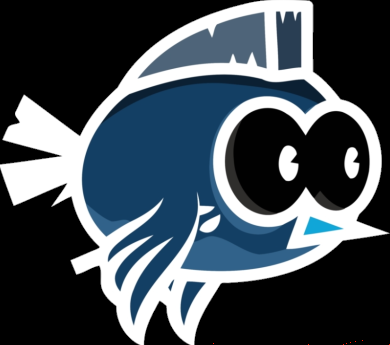
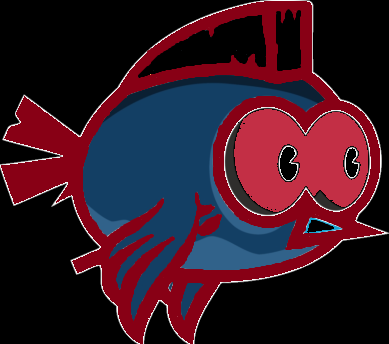
added flappy lag punk mode

diff --git a/Computer graphics/Flappy lag/CG_Project3/Main.cpp b/Computer graphics/Flappy lag/CG_Project3/Main.cpp
@@ -123,6 +123,43 @@ public:
 		}
 	}
 
+	virtual void CreateVAOPunk()
+	{
+		glGenVertexArrays(1, &m_vao);
+		glBindVertexArray(m_vao);
+
+		unsigned int vbo;
+		glGenBuffers(1, &vbo);
+		glBindBuffer(GL_ARRAY_BUFFER, vbo);
+		glBufferData(GL_ARRAY_BUFFER, chimneyVertices.size() * sizeof(Vertex), chimneyVertices.data(), GL_STATIC_DRAW);
+
+		glVertexAttribPointer(0, 3, GL_FLOAT, GL_FALSE, sizeof(Vertex), NULL);
+		glVertexAttribPointer(1, 3, GL_FLOAT, GL_FALSE, sizeof(Vertex), (void*)offsetof(Vertex, r));
+		glVertexAttribPointer(2, 2, GL_FLOAT, GL_FALSE, sizeof(Vertex), (void*)offsetof(Vertex, s));
+		glEnableVertexAttribArray(0);
+		glEnableVertexAttribArray(1);
+		glEnableVertexAttribArray(2);
+		{
+			int width, height, nrChannels;
+			shared_ptr<unsigned char> data = shared_ptr<unsigned char>(stbi_load("Resources/background1.jpg", &width, &height, &nrChannels, 0), stbi_image_free);
+			if (!data)
+				throw exception("Failed to load texture");
+
+			unsigned texture;
+			glGenTextures(1, &texture);
+			glActiveTexture(GL_TEXTURE2);
+			glBindTexture(GL_TEXTURE_2D, texture);
+
+			glTexParameteri(GL_TEXTURE_2D, GL_TEXTURE_WRAP_S, GL_REPEAT);
+			glTexParameteri(GL_TEXTURE_2D, GL_TEXTURE_WRAP_T, GL_REPEAT);
+			glTexParameteri(GL_TEXTURE_2D, GL_TEXTURE_MIN_FILTER, GL_LINEAR);
+			glTexParameteri(GL_TEXTURE_2D, GL_TEXTURE_MAG_FILTER, GL_LINEAR);
+
+			glTexImage2D(GL_TEXTURE_2D, 0, GL_RGBA, width, height, 0, GL_RGBA, GL_UNSIGNED_BYTE, data.get());
+			glGenerateMipmap(GL_TEXTURE_2D);
+		}
+	}
+
 	virtual void Draw(ShaderProgram& shader)
 	{
 		mat4 model = mat4(1.0f);
@@ -181,6 +218,43 @@ public:
 		{
 			int width, height, nrChannels;
 			shared_ptr<unsigned char> data = shared_ptr<unsigned char>(stbi_load("Resources/chimney.jpg", &width, &height, &nrChannels, 0), stbi_image_free);
+			if (!data)
+				throw exception("Failed to load texture");
+
+			unsigned texture;
+			glGenTextures(1, &texture);
+			glActiveTexture(GL_TEXTURE1);
+			glBindTexture(GL_TEXTURE_2D, texture);
+
+			glTexParameteri(GL_TEXTURE_2D, GL_TEXTURE_WRAP_S, GL_REPEAT);
+			glTexParameteri(GL_TEXTURE_2D, GL_TEXTURE_WRAP_T, GL_REPEAT);
+			glTexParameteri(GL_TEXTURE_2D, GL_TEXTURE_MIN_FILTER, GL_LINEAR);
+			glTexParameteri(GL_TEXTURE_2D, GL_TEXTURE_MAG_FILTER, GL_LINEAR);
+
+			glTexImage2D(GL_TEXTURE_2D, 0, GL_RGB, width, height, 0, GL_RGB, GL_UNSIGNED_BYTE, data.get());
+			glGenerateMipmap(GL_TEXTURE_2D);
+		}
+	}
+
+	virtual void CreateVAOPunk()
+	{
+		glGenVertexArrays(1, &m_vao);
+		glBindVertexArray(m_vao);
+
+		unsigned int vbo;
+		glGenBuffers(1, &vbo);
+		glBindBuffer(GL_ARRAY_BUFFER, vbo);
+		glBufferData(GL_ARRAY_BUFFER, chimneyVertices.size() * sizeof(Vertex), chimneyVertices.data(), GL_STATIC_DRAW);
+
+		glVertexAttribPointer(0, 3, GL_FLOAT, GL_FALSE, sizeof(Vertex), NULL);
+		glVertexAttribPointer(1, 3, GL_FLOAT, GL_FALSE, sizeof(Vertex), (void*)offsetof(Vertex, r));
+		glVertexAttribPointer(2, 2, GL_FLOAT, GL_FALSE, sizeof(Vertex), (void*)offsetof(Vertex, s));
+		glEnableVertexAttribArray(0);
+		glEnableVertexAttribArray(1);
+		glEnableVertexAttribArray(2);
+		{
+			int width, height, nrChannels;
+			shared_ptr<unsigned char> data = shared_ptr<unsigned char>(stbi_load("Resources/chimney2.jpg", &width, &height, &nrChannels, 0), stbi_image_free);
 			if (!data)
 				throw exception("Failed to load texture");
 
@@ -287,6 +361,43 @@ public:
 		}
 	}
 
+	virtual void CreateVAOPunk()
+	{
+		glGenVertexArrays(1, &m_vao);
+		glBindVertexArray(m_vao);
+
+		unsigned int vbo;
+		glGenBuffers(1, &vbo);
+		glBindBuffer(GL_ARRAY_BUFFER, vbo);
+		glBufferData(GL_ARRAY_BUFFER, birdVertices.size() * sizeof(Vertex), birdVertices.data(), GL_STATIC_DRAW);
+
+		glVertexAttribPointer(0, 3, GL_FLOAT, GL_FALSE, sizeof(Vertex), NULL);
+		glVertexAttribPointer(1, 3, GL_FLOAT, GL_FALSE, sizeof(Vertex), (void*)offsetof(Vertex, r));
+		glVertexAttribPointer(2, 2, GL_FLOAT, GL_FALSE, sizeof(Vertex), (void*)offsetof(Vertex, s));
+		glEnableVertexAttribArray(0);
+		glEnableVertexAttribArray(1);
+		glEnableVertexAttribArray(2);
+		{
+			int width, height, nrChannels;
+			shared_ptr<unsigned char> data = shared_ptr<unsigned char>(stbi_load("Resources/bird1.png", &width, &height, &nrChannels, 0), stbi_image_free);
+			if (!data)
+				throw exception("Failed to load texture");
+
+			unsigned texture;
+			glGenTextures(1, &texture);
+			glActiveTexture(GL_TEXTURE0);
+			glBindTexture(GL_TEXTURE_2D, texture);
+
+			glTexParameteri(GL_TEXTURE_2D, GL_TEXTURE_WRAP_S, GL_REPEAT);
+			glTexParameteri(GL_TEXTURE_2D, GL_TEXTURE_WRAP_T, GL_REPEAT);
+			glTexParameteri(GL_TEXTURE_2D, GL_TEXTURE_MIN_FILTER, GL_LINEAR);
+			glTexParameteri(GL_TEXTURE_2D, GL_TEXTURE_MAG_FILTER, GL_LINEAR);
+
+			glTexImage2D(GL_TEXTURE_2D, 0, GL_RGBA, width, height, 0, GL_RGBA, GL_UNSIGNED_BYTE, data.get());
+			glGenerateMipmap(GL_TEXTURE_2D);
+		}
+	}
+
 	virtual void Draw(ShaderProgram& shader)
 	{
 		glUniform1i(glGetUniformLocation(shader.ID, "ourTexture"), 0);
@@ -345,11 +456,13 @@ private:
 
 class Game
 {
-	vector<unique_ptr<Chimney>> chimneys;
+private:
+	bool punkMod = false;
 
 public:
 	Bird bird = Bird(vec3(-2, 0, 0.0f));
 	BackGround background = BackGround(vec3(0, 0, 0));
+	vector<unique_ptr<Chimney>> chimneys;
 
 	void GenerateChimney() {
 		for (size_t i = 0; i < 30; i++)
@@ -385,7 +498,7 @@ private:
 			lengthChimney[59 - i] = 12 - rnd + 2; //2 for starting size 12 for eding size
 		}
 	}
-	int indexChimneyNotToDisplay = 0;
+	int indexChimneyNotToDisplayBack = 0;
 
 public:
 	void Animate(GLFWwindow* window)
@@ -395,10 +508,10 @@ public:
 
 		bool isup = false;
 		bool isdown = false;
-		for (size_t i = indexChimneyNotToDisplay; i < chimneys.size(); i++) //TODO: dont draw all
+		for (size_t i = indexChimneyNotToDisplayBack; i < chimneys.size(); i++) //TODO: dont draw all
 		{
 			if (chimneys.at(i)->xMin() < -3) {
-				indexChimneyNotToDisplay = i;
+				indexChimneyNotToDisplayBack = i;
 			}
 
 			chimneys.at(i)->Move(window);
@@ -412,15 +525,12 @@ public:
 			cout << "You hit upper chimney!" << endl;
 			exit(1);
 		}			
-		else
-			cout << endl;
+		
 		if (isdown)
 		{
 			cout << "You hit down chimney!" << endl;
 			exit(1);
 		}			
-		else
-			cout << endl;
 	}
 
 	void CollisionWithChimney(const size_t& i, bool& isdown, bool& isup)
@@ -443,28 +553,60 @@ public:
 			}
 		}
 	}
+private: 
+	int scoreMax = 0;
 
+public:
 	void Score()
 	{
+		for (size_t i = 0; i < chimneys.size(); i++)
+		{
+			if (chimneys.at(i)->xMin() < -3) {
+				indexChimneyNotToDisplayBack = i;
+			}
 
+			if (chimneys.at(i)->xMax() > 3) {
+				break;
+			}
+
+			if (scoreMax < i&&bird.xMax()>chimneys.at(i)->xMax()) {
+				scoreMax++;
+				cout << "Score: " << i << " points." << endl;
+				break;
+			}
+		}
 	}
 
 	int arrSize = sizeof(lengthChimney) / sizeof(lengthChimney[0]);
 
 	void Draw()
 	{
+
 		background.Draw(*shader);
 		bird.Draw(*shader);
 
 		for (size_t i = 0; i < chimneys.size(); i++)
 		{
 			if (chimneys.at(i)->xMin() < -3) {
-				continue;
+				indexChimneyNotToDisplayBack = i;
 			}
 
 			if (chimneys.at(i)->xMax() > 3) {
 				break;
 			}
+
+			if (indexChimneyNotToDisplayBack == 5&&punkMod==0) {
+				punkMod = true;
+				bird.CreateVAOPunk();
+				background.CreateVAOPunk();
+
+				for (size_t i = 0; i < chimneys.size(); i++)
+				{
+					chimneys.at(i)->CreateVAOPunk();
+				}
+			}
+
+
 			if (i % 2 == 0)
 				chimneys.at(i)->Draw(*shader, 0, lengthChimney[i]);
 			else
@@ -537,6 +679,7 @@ int main()
 
 			Game.Animate(window);
 			Game.Draw();
+			Game.Score();
 
 			// Swap the screen buffers
 			glfwSwapBuffers(window);
